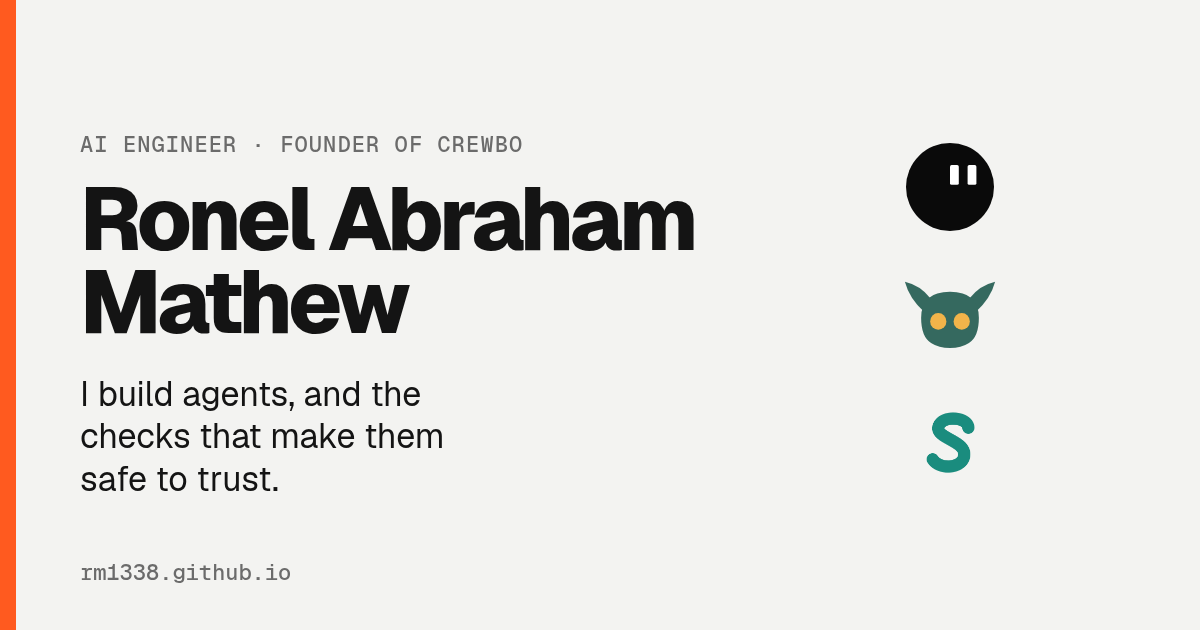
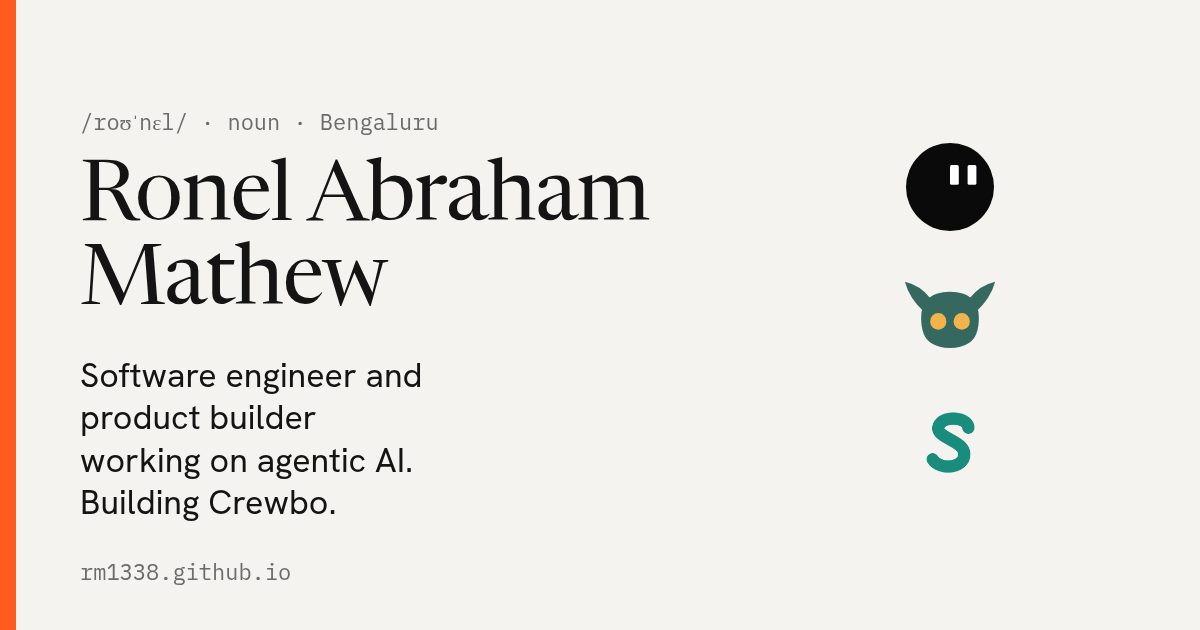
Dictionary-entry hero, Newsreader and Hanken Grotesk, fewer template sections, aligned ledgers

diff --git a/src/styles/global.css b/src/styles/global.css
@@ -1,8 +1,11 @@
-@import '@fontsource-variable/geist';
-@import '@fontsource-variable/geist-mono';
+@import '@fontsource-variable/newsreader/opsz.css';
+@import '@fontsource-variable/newsreader/opsz-italic.css';
+@import '@fontsource-variable/hanken-grotesk';
+@import '@fontsource/ibm-plex-mono/400.css';
+@import '@fontsource/ibm-plex-mono/500.css';
 
 :root {
-  --bg: #f3f3f1;
+  --bg: #f4f3ef;
   --surface: #ffffff;
   --ink: #141414;
   --muted: #6b6b6b;
@@ -10,8 +13,9 @@
   --accent: #ff5a1f;
   --ok: #1f8a4c;
   --warn: #9a5c00;
-  --sans: 'Geist Variable', system-ui, sans-serif;
-  --mono: 'Geist Mono Variable', ui-monospace, monospace;
+  --serif: 'Newsreader Variable', Georgia, serif;
+  --sans: 'Hanken Grotesk Variable', system-ui, sans-serif;
+  --mono: 'IBM Plex Mono', ui-monospace, monospace;
   --max: 1280px;
   --pad: 32px;
   --section: 160px;
@@ -39,16 +43,15 @@ a:hover { color: var(--accent); }
 :focus-visible { outline: 2px solid var(--accent); outline-offset: 3px; }
 img { max-width: 100%; height: auto; display: block; }
 
-h1, h2, h3 { margin: 0; line-height: 1.05; }
-h2 { font-size: clamp(28px, 4vw, 40px); font-weight: 700; letter-spacing: -0.02em; }
-h3 { font-size: clamp(20px, 2vw, 22px); font-weight: 600; letter-spacing: -0.01em; }
+h1, h2, h3 { margin: 0; line-height: 1.1; }
+h1, h2 { font-family: var(--serif); font-weight: 400; letter-spacing: -0.015em; }
+h2 { font-size: clamp(30px, 4vw, 44px); }
+h3 { font-size: clamp(19px, 2vw, 21px); font-weight: 600; letter-spacing: -0.005em; }
 p { margin: 0 0 1em; }
 
 .wrap { max-width: var(--max); margin: 0 auto; padding: 0 var(--pad); }
 .label {
-  font: 500 13px/1.4 var(--mono);
-  text-transform: uppercase;
-  letter-spacing: 0.04em;
+  font: 500 15px/1.4 var(--sans);
   color: var(--muted);
 }
 .muted { color: var(--muted); }
@@ -70,7 +73,7 @@ p { margin: 0 0 1em; }
 .ev-self-reported { color: var(--muted); }
 .ev-not-yet-measured { color: var(--warn); }
 
-.status { font: 500 13px/1.4 var(--mono); text-transform: uppercase; letter-spacing: 0.04em; }
+.status { font: 500 15px/1.4 var(--sans); }
 .status::before { content: '●'; margin-right: 6px; }
 .status-live::before { color: var(--ok); }
 .status-preview::before { color: var(--accent); }

diff --git a/src/lib/github.ts b/src/lib/github.ts
@@ -1,8 +1,19 @@
+import { execFileSync } from 'node:child_process';
+
+/** Locally, fall back to the GitHub CLI's login so `npm run dev` shows the graph too. */
+function ghToken(): string | undefined {
+  try {
+    return execFileSync('gh', ['auth', 'token'], { encoding: 'utf8', stdio: ['ignore', 'pipe', 'ignore'] }).trim() || undefined;
+  } catch {
+    return undefined;
+  }
+}
+
 /** One year of public GitHub contributions, fetched at build time. Null when no token is set, so the section hides. */
 export type Day = { date: string; count: number };
 
 export async function contributions(login = 'RM1338'): Promise<{ total: number; weeks: Day[][] } | null> {
-  const token = process.env.GITHUB_TOKEN;
+  const token = process.env.GITHUB_TOKEN || ghToken();
   if (!token) return null;
   const query = `query { user(login: "${login}") { contributionsCollection { contributionCalendar {
     totalContributions weeks { contributionDays { date contributionCount } } } } } }`;
